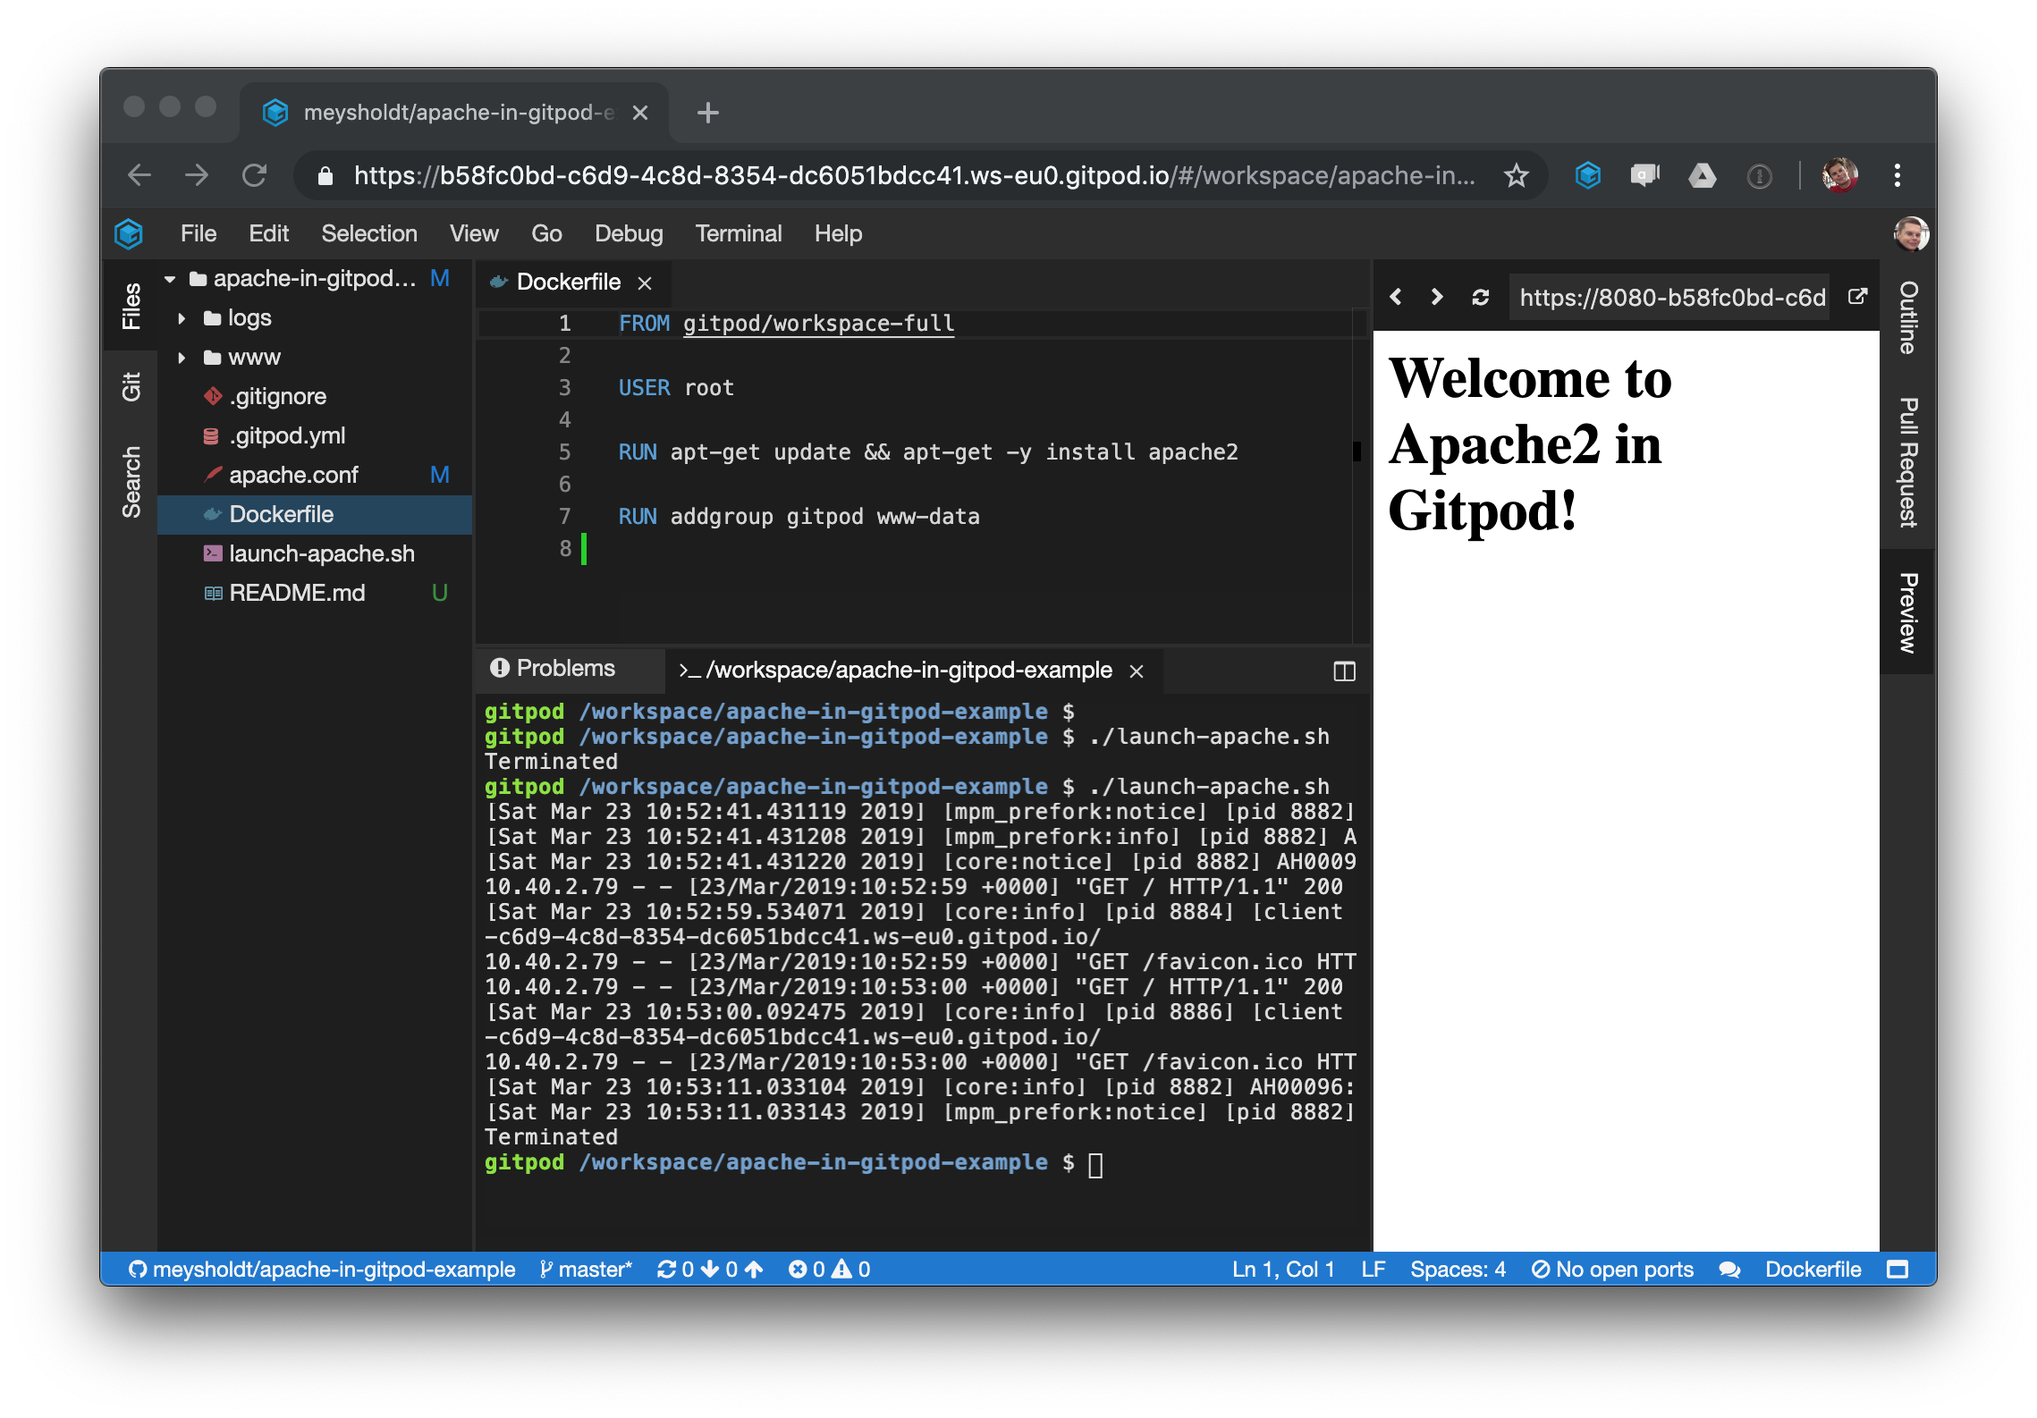
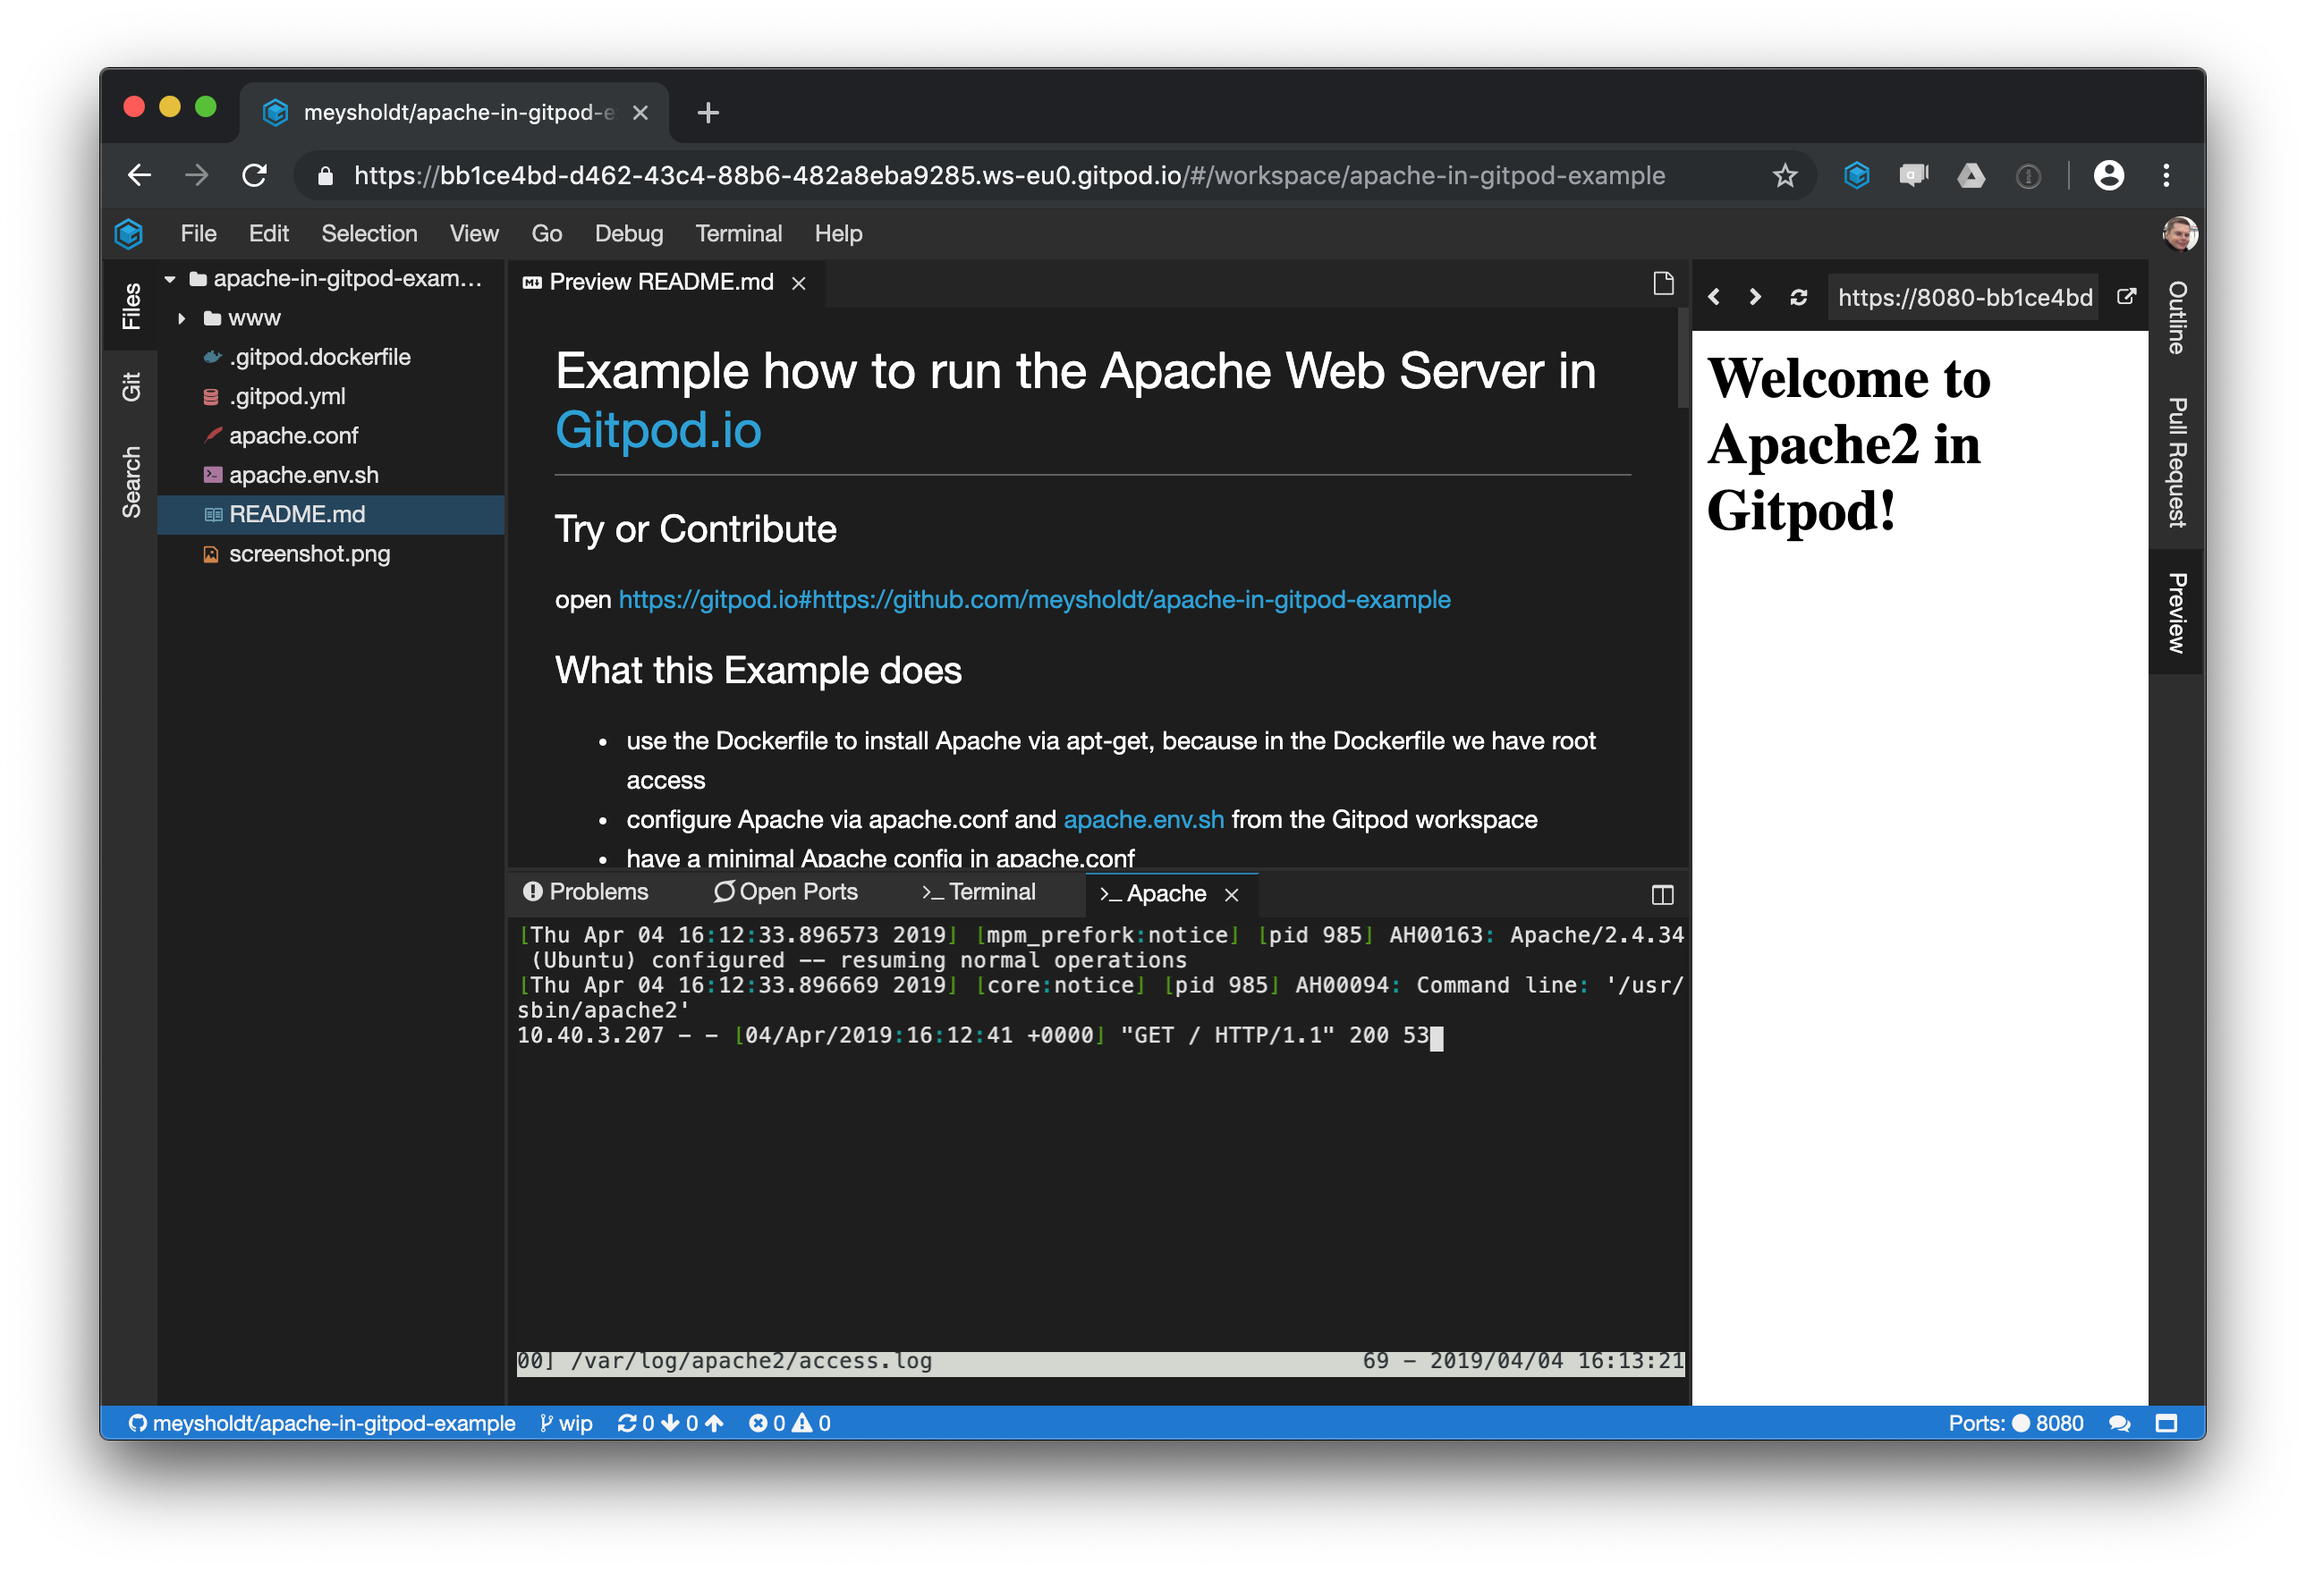
Simplified example
* run Aapche as background process
* don't use a launch script
* minimize Apache config

Changed region(s): [[0.0312, 0.0309, 0.9662, 0.9578], [0.4052, 0.1545, 0.4363, 0.1854]]

diff --git a/README.md b/README.md
@@ -7,11 +7,18 @@ open [https://gitpod.io#https://github.com/meysholdt/apache-in-gitpod-example](h
 ## What this Example does
 
 * use the Dockerfile to install Apache via apt-get, because in the Dockerfile we have root access
-* create a launch script for apache to...
-* run apache in /workspace/
-* run apache as gitpod:gitpod
-* run apache in forground (not as daemon) so that we can nicely see the logs in Gitpod's Terminal View
+* configure Apache via apache.conf and apache.env.sh from the Gitpod workspace
+* have a minimal Apache config in apache.conf
+* run Apache as gitpod:gitpod
+* follow the Apache logs in the Gitpod Terminal View via multitail
 * run apache on port 8080, because as unpreviliged process it can't open port 80
+
+## Terminal Commands to try
+* `apachectl start` - start Apache Web Server (it's started automatically on workspace launch)
+* `apachectl stop` - stop Apache Web Server
+* `gp open /var/log/apache2/access.log` - Open Apache access.log in Gitpod editor
+* `gp open /var/log/apache2/error.log` - Open Apache error.log in Gitpod editor
+* `multitail /var/log/apache2/access.log -I /var/log/apache2/error.log` - View and follow logs in Terminal
 
 ## How it looks like
 
